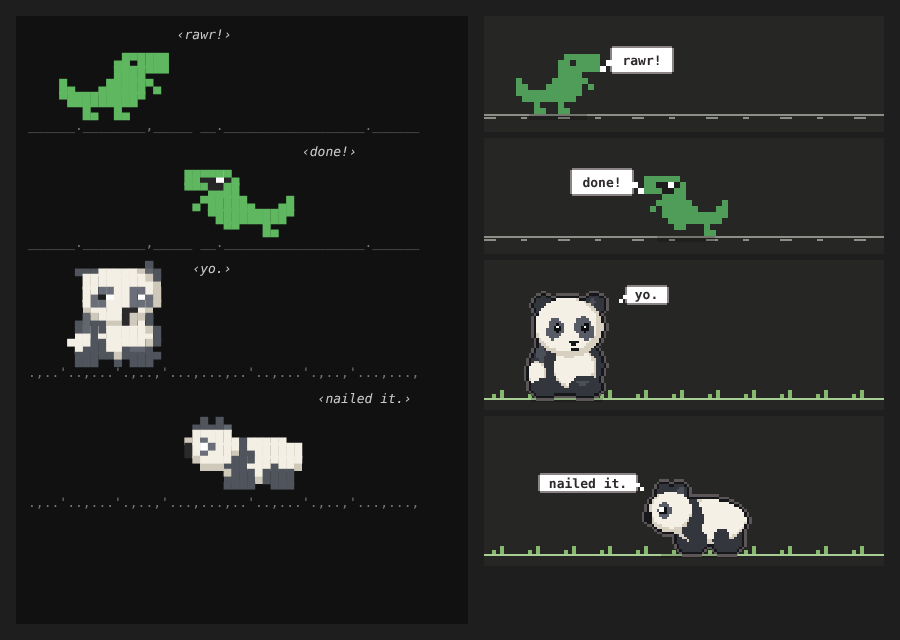
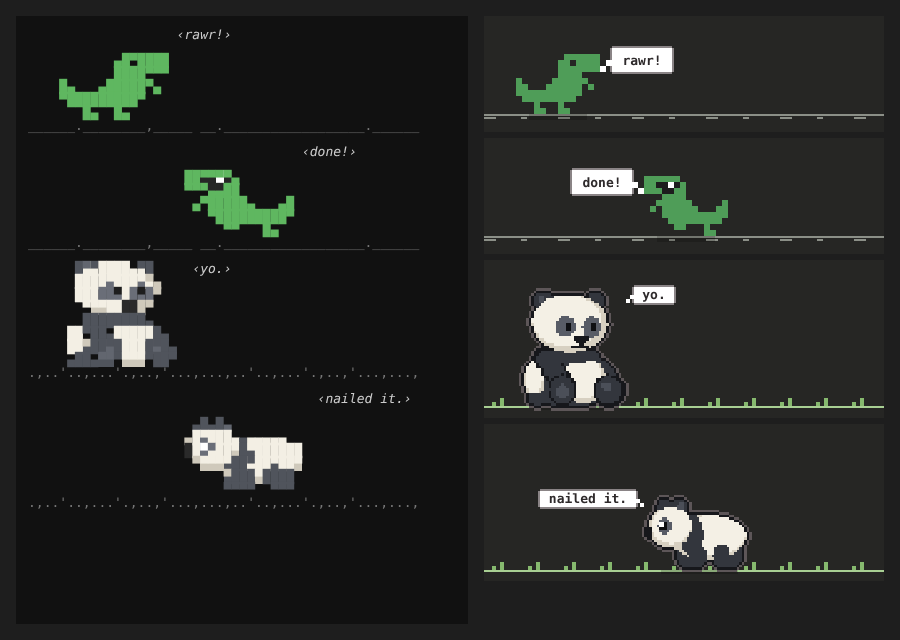
buddy: give the sitting panda a proper arm resting on its hip
The arm is now its own outlined shape, slanting from the shoulder down to
the middle leg with the hand against the white hip. Sloping shoulders, a
chunky triangle nose with a mouth line, solid pupils, and outlined feet.

Claude-Session: https://claude.ai/code/session_01FB6BJrRqbn2oSwVncdYdDf

Changed region(s): [[0.5289, 0.7188, 0.9644, 0.9062], [0.5289, 0.4375, 0.9644, 0.6562], [0.0622, 0.4062, 0.2178, 0.5938]]

diff --git a/plugins/buddy/hooks/panda.ts b/plugins/buddy/hooks/panda.ts
@@ -28,56 +28,72 @@ const furBall = (cx: number, cy: number, rx: number, ry: number): Shape[] => [
 ]
 
 function sitting(s: Scene): Pose {
-  // Three-quarter view, turned towards where it faces. One pear-shaped
-  // silhouette: dark fur wraps the shoulders, back and far arm, with a white
-  // belly on the facing side and a small white hip behind
+  // Three-quarter view, turned towards where it faces (drawn facing right).
+  // A pear-shaped silhouette, wider at the bottom than the head: dark fur
+  // with a collar across the chest, an arm running down the middle, a white
+  // belly on the facing side and a white hip on the back edge
+  // The big front foot bulging out on the facing side, outlined against the body
+  const frontFoot = [ell('O', 22.4, 24.2, 3.8, 3.9), ell('K', 22.4, 24.2, 3.2, 3.4), ell('k', 22, 23.4, 1.3, 1.1)]
   const shapes: Shape[] = [
-    // Dark body, then a sheen along the back
-    ell('K', 12, 18.2, 9, 7),
-    ell('k', 5.6, 15, 1, 2.6),
-    // The white hip, inside the silhouette at the back
-    ell('S', 4.6, 20.2, 2.3, 3.1),
-    ell('W', 4.4, 19.9, 2, 2.7),
-    // The white belly, towards the facing side
-    ...furBall(14.2, 18.8, 5.4, 5.4),
-    // Heavy feet: the back one, then the front one planted in front
-    ell('K', 6.4, 23.6, 3.4, 2.2),
-    ell('K', 16.6, 23.2, 4, 2.6),
-    ell('k', 16, 22.3, 1.6, 0.6),
-    // Ears, the far one a little smaller
-    ell('K', 6.2, 3.1, 2.3, 2.2),
-    ell('K', 18.8, 2.9, 2.6, 2.4),
-    ell('k', 18.2, 2.3, 0.9, 0.8),
-    // A round head, about half its height
-    ...furBall(12.6, 8.6, 8.4, 7.4),
-    // Slanted grey eye patches, lower at the outside; the far one narrower
-    ell('P', 9.2, 8.6, 2, 2.4),
-    ell('P', 8.6, 9.8, 1.8, 1.8),
-    ell('P', 16.2, 8.4, 2.3, 2.5),
-    ell('P', 16.9, 9.7, 2.1, 2),
-    // A little triangle nose and a short mouth, towards the facing side
-    rect('N', 12.5, 11.9, 2.5, 0.6),
-    rect('N', 13.1, 12.5, 1.3, 0.6),
-    rect('N', 12.9, 14, 1.8, 0.6),
+    // Dark body
+    ell('K', 13, 21.6, 11.4, 6.8),
+    // The white hip on the back edge, with the back foot under it
+    ell('S', 3.9, 21.4, 2.5, 4.6),
+    ell('W', 3.8, 21, 2.2, 4.2),
+    ell('K', 4.8, 26.3, 2.6, 1.6),
+    // The white belly on the facing side
+    ...furBall(16.4, 21.8, 5.4, 5.8),
+    // The arm's sheen, and the leg block in the middle with a lighter pad
+    // The arm, its own outlined shape, running from the shoulder down to the
+    // hand resting against the hip
+    ell('O', 7, 16.6, 3.1, 2.9),
+    ell('O', 8.6, 19, 3.1, 2.9),
+    ell('O', 10, 21.2, 3, 2.6),
+    ell('K', 7, 16.6, 2.5, 2.3),
+    ell('K', 8.6, 19, 2.5, 2.3),
+    ell('K', 10, 21.2, 2.4, 2),
+    // The leg block in the middle, outlined against the body, with a pad
+    ell('O', 10.9, 24.2, 3.7, 3.9),
+    ell('K', 10.9, 24.2, 3.1, 3.4),
+    ell('k', 10.9, 24.6, 1.4, 1.9),
+    // The big front foot, bulging out on the facing side
+    ...(s.isMunching ? [] : frontFoot),
+    // The collar across the chest, under the head
+    ell('K', 12.8, 15.6, 7.4, 1.9),
+    // Ears
+    ell('K', 6.3, 2.1, 2.6, 2.3),
+    ell('K', 19.2, 1.9, 2.2, 2.1),
+    ell('k', 5.6, 1.5, 0.9, 0.8),
+    // The head, about half its height
+    ...furBall(12.8, 7.6, 9.4, 7.2),
+    // Grey eye patches
+    ell('P', 11.7, 8.3, 2.5, 2.5),
+    ell('P', 18.2, 8.5, 2.3, 2.6),
+    // A wide triangle nose and a long mouth line, towards the facing side
+    rect('N', 13.6, 10.7, 3.6, 1),
+    rect('N', 14.2, 11.7, 2.4, 0.7),
+    rect('N', 14.9, 12.4, 1, 0.6),
+    rect('N', 13.2, 13.1, 4.2, 0.7),
   ]
-  if (s.isAsleep || s.isBlinking) shapes.push(rect('L', 7.8, 9, 2.8, 0.6), rect('L', 14.8, 9, 3.2, 0.6))
+  if (s.isAsleep || s.isBlinking) shapes.push(rect('L', 10.3, 8.8, 3, 0.6), rect('L', 16.8, 8.8, 3, 0.6))
   else if (s.isHappy) {
     // Shades on
-    shapes.push(rect('B', 7, 7.2, 4.4, 2.8), rect('B', 14, 7, 5, 2.8), rect('B', 11.4, 7.4, 2.6, 0.8), rect('B', 19, 7.2, 1.6, 0.8))
-    shapes.push(rect('w', 7.8, 7.6, 0.6, 0.6), rect('w', 14.8, 7.4, 0.6, 0.6))
+    shapes.push(rect('B', 9.2, 6.6, 5, 3.6), rect('B', 15.8, 6.6, 5, 3.6), rect('B', 14.2, 7.2, 1.6, 0.8))
+    shapes.push(rect('B', 7.4, 7, 1.8, 0.8), rect('B', 20.8, 7, 1.6, 0.8))
+    shapes.push(rect('w', 10, 7.2, 0.6, 0.6), rect('w', 16.6, 7.2, 0.6, 0.6))
   } else {
-    // Small dark eyes with a tiny glint: calm rather than wide-eyed
-    shapes.push(ell('E', 9.6, 8.8, 0.8, 1.1), ell('E', 16.6, 8.7, 0.9, 1.2))
-    shapes.push(rect('w', 9.4, 8.2, 0.6, 0.6), rect('w', 16.4, 8.1, 0.6, 0.6))
+    // Plain dark pupils, set towards the facing side of each patch
+    shapes.push(rect('E', 11.9, 7.6, 1.3, 1.9), rect('E', 18.2, 7.8, 1.1, 1.7))
   }
-  if (s.chew) shapes.push(rect('R', 13.1, 13.4, 1.3, 1))
+  if (s.chew) shapes.push(rect('R', 14.6, 13.8, 1.6, 0.6))
   if (s.isMunching) {
     // A stalk of bamboo held up in front, leaves at the top
-    shapes.push(rect('G', 18.6, 4, 1.8, 20), px('g', [18.6, 9], [19.4, 16]))
-    shapes.push(ell('g', 21.4, 4.4, 2, 0.9), ell('g', 17.2, 5.2, 1.8, 0.8))
-    shapes.push(ell('K', 18.4, 15.4, 2.4, 2), ell('k', 17.8, 14.8, 0.8, 0.6))
+    shapes.push(rect('G', 21, 5, 1.8, 22), px('g', [21, 10], [21.8, 18]))
+    shapes.push(ell('g', 23.6, 5.4, 2, 0.9), ell('g', 19.6, 6.2, 1.8, 0.8))
+    shapes.push(ell('K', 21, 17.4, 2.6, 2.2), ell('k', 20.4, 16.8, 0.8, 0.6))
+    shapes.push(...frontFoot)
   }
-  return { w: 24, h: 26, shapes }
+  return { w: 26, h: 28, shapes }
 }
 
 function walking(s: Scene): Pose {
@@ -230,7 +246,7 @@ const PX = 2.5 // ...with smaller pixels, so the panda keeps its size
 const UNIT = 4 // grass, shadow and speech bubble keep chunkier pixels
 const CELL = 8
 const LIFT = 5
-const TALLEST = Math.ceil(26 * DESK_SCALE) + 2 // the sitting pose, with its outline
+const TALLEST = Math.ceil(28 * DESK_SCALE) + 2 // the sitting pose, with its outline
 
 function react(text: string): string {
   const t = text.toLowerCase()
